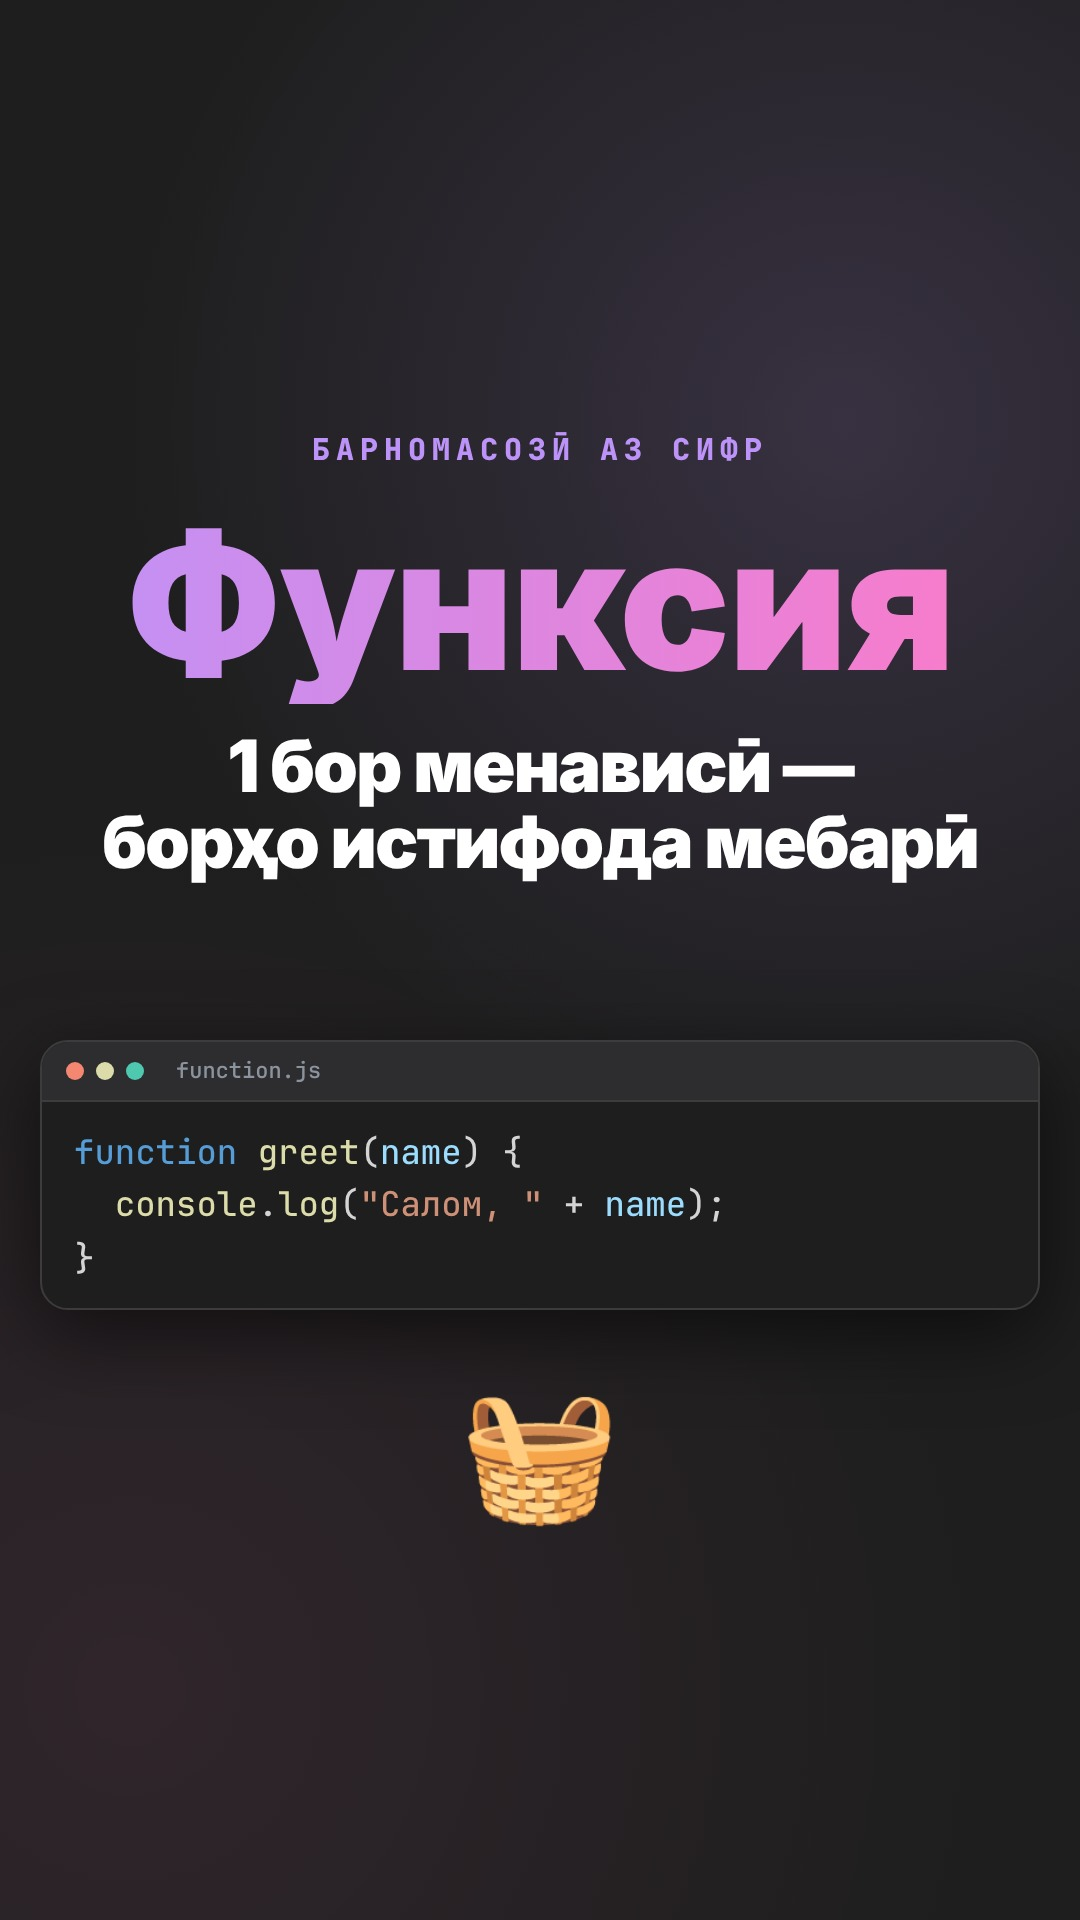
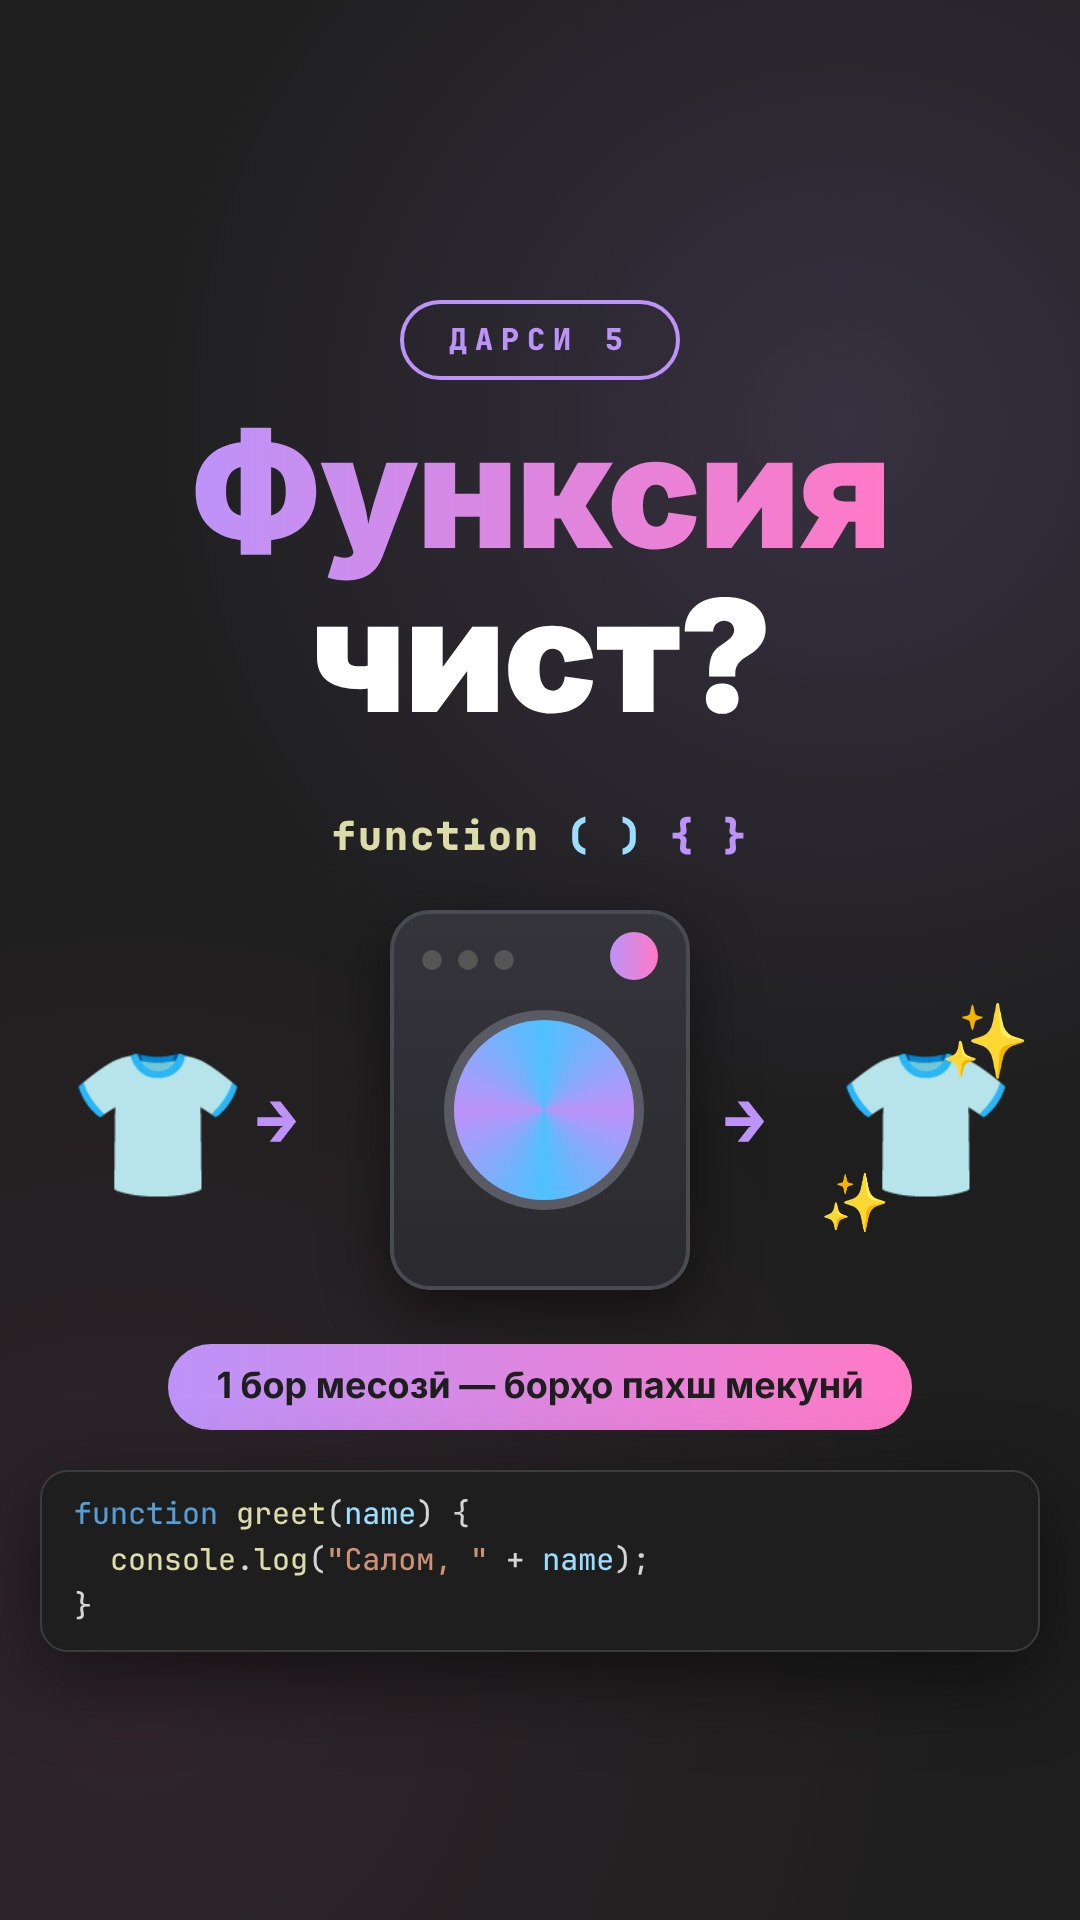
Reels 5: improved cover
Claude-Session: https://claude.ai/code/session_017jccrZpZbgQTHVBnRbV6Lc

diff --git a/smm-video/reels/05-function/cover.html b/smm-video/reels/05-function/cover.html
@@ -1,10 +1,21 @@
 <!doctype html><html lang="tg"><head><meta charset="utf-8"><link rel="stylesheet" href="build/style.css"><style>
 .c{position:absolute;left:0;right:0;text-align:center}
+.mach .win{animation:none}
+.arrow{position:absolute;font:900 34px var(--mono);color:var(--purple)}
 </style></head><body>
-<div class="kicker" style="top:215px;font-size:15px">БАРНОМАСОЗӢ АЗ СИФР</div>
-<div class="h1 acc" style="top:255px;font-size:92px">Функсия</div>
-<div class="h1" style="top:365px;font-size:36px;color:#fff">1 бор менависӣ —<br>борҳо истифода мебарӣ</div>
-<div class="ide" style="top:520px"><div class="bar"><i></i><i></i><i></i><span>function.js</span></div>
-<div class="code" style="font-size:17px"><div class="ln"><span class="k">function</span> <span class="f">greet</span>(<span class="p">name</span>) {</div><div class="ln">  <span class="f">console</span>.<span class="f">log</span>(<span class="s">"Салом, "</span> + <span class="p">name</span>);</div><div class="ln">}</div></div></div>
-<div class="c emo" style="top:690px;font-size:64px">🧺</div>
+<div class="pill" style="top:150px;background:transparent;border:2px solid var(--purple);color:var(--purple);font:800 15px var(--mono);letter-spacing:4px;padding:8px 22px">ДАРСИ 5</div>
+<div class="h1" style="top:205px;font-size:78px;color:#fff"><span class="acc">Функсия</span><br>чист?</div>
+<div class="c" style="top:405px;font:800 20px var(--mono);color:var(--fn);letter-spacing:1px">function <span style="color:var(--par)">( )</span> <span style="color:var(--purple)">{ }</span></div>
+
+<div class="abs emo" style="left:34px;top:520px;font-size:72px">👕</div>
+<div class="arrow" style="left:128px;top:538px">→</div>
+<div class="mach" style="left:195px;top:455px;width:150px;height:190px"><div class="top"><i></i><i></i><i></i></div>
+ <div class="win"></div><div class="btn small" style="right:14px;top:9px"></div></div>
+<div class="arrow" style="left:362px;top:538px">→</div>
+<div class="abs emo" style="left:418px;top:520px;font-size:72px">👕</div>
+<div class="abs emo" style="left:470px;top:500px;font-size:36px">✨</div>
+<div class="abs emo" style="left:410px;top:585px;font-size:28px">✨</div>
+
+<div class="pill" style="top:672px;font-size:18px;background:var(--accent);color:#1E1E1E;border:0;padding:11px 24px">1 бор месозӣ — борҳо пахш мекунӣ</div>
+<div class="ide" style="top:735px"><div class="code" style="font-size:15px;padding:10px 16px;line-height:1.55"><div class="ln" style="height:23px"><span class="k">function</span> <span class="f">greet</span>(<span class="p">name</span>) {</div><div class="ln" style="height:23px">  <span class="f">console</span>.<span class="f">log</span>(<span class="s">"Салом, "</span> + <span class="p">name</span>);</div><div class="ln" style="height:23px">}</div></div></div>
 </body></html>
